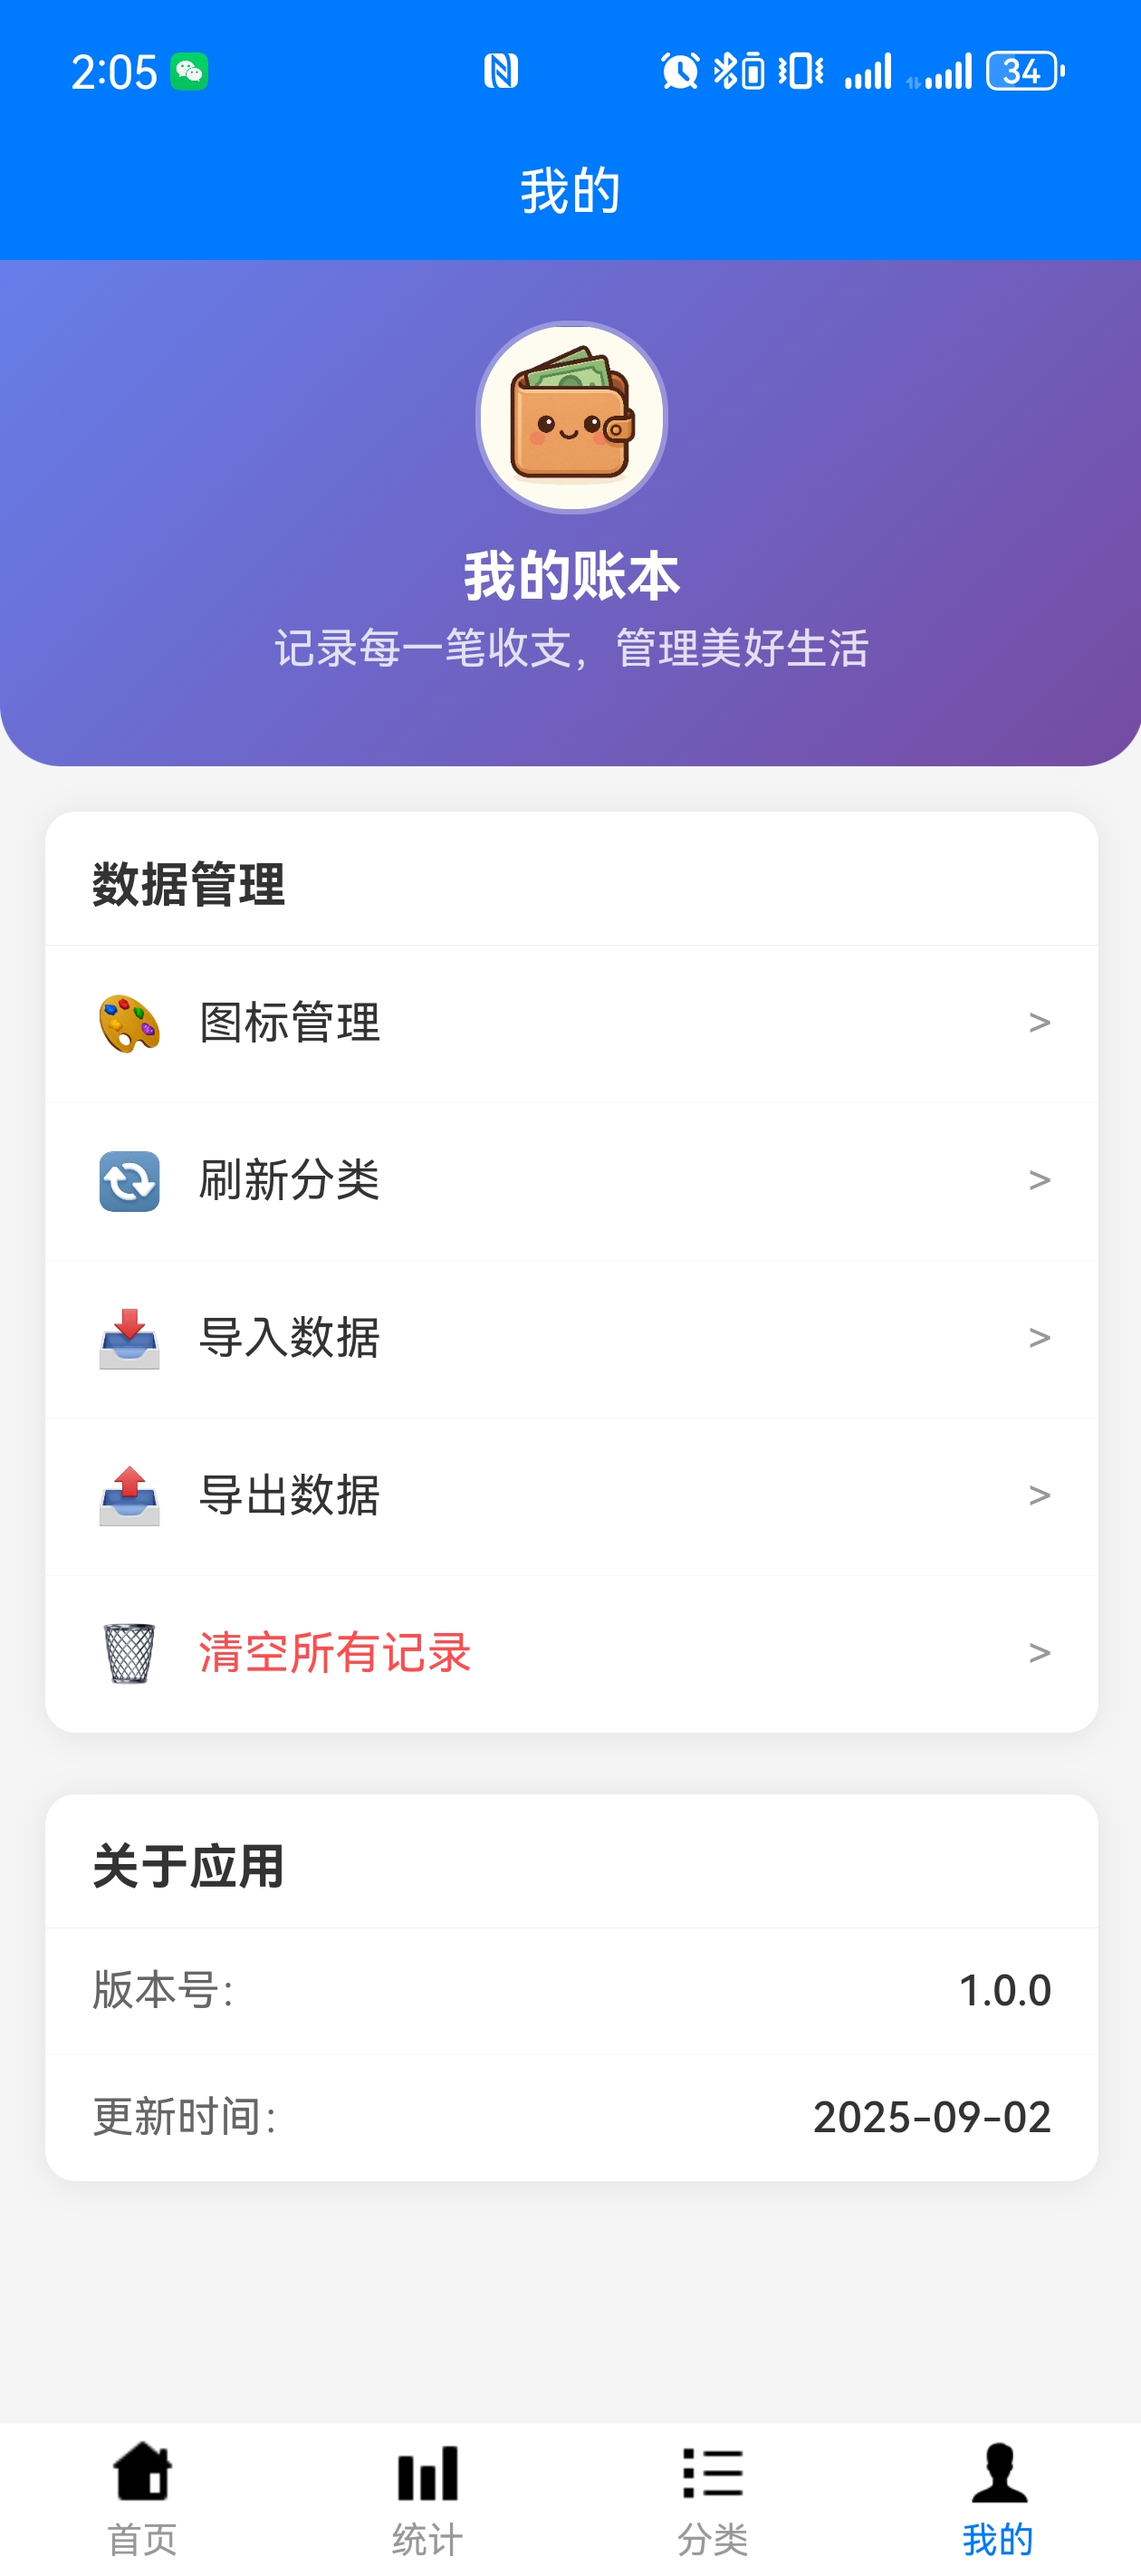
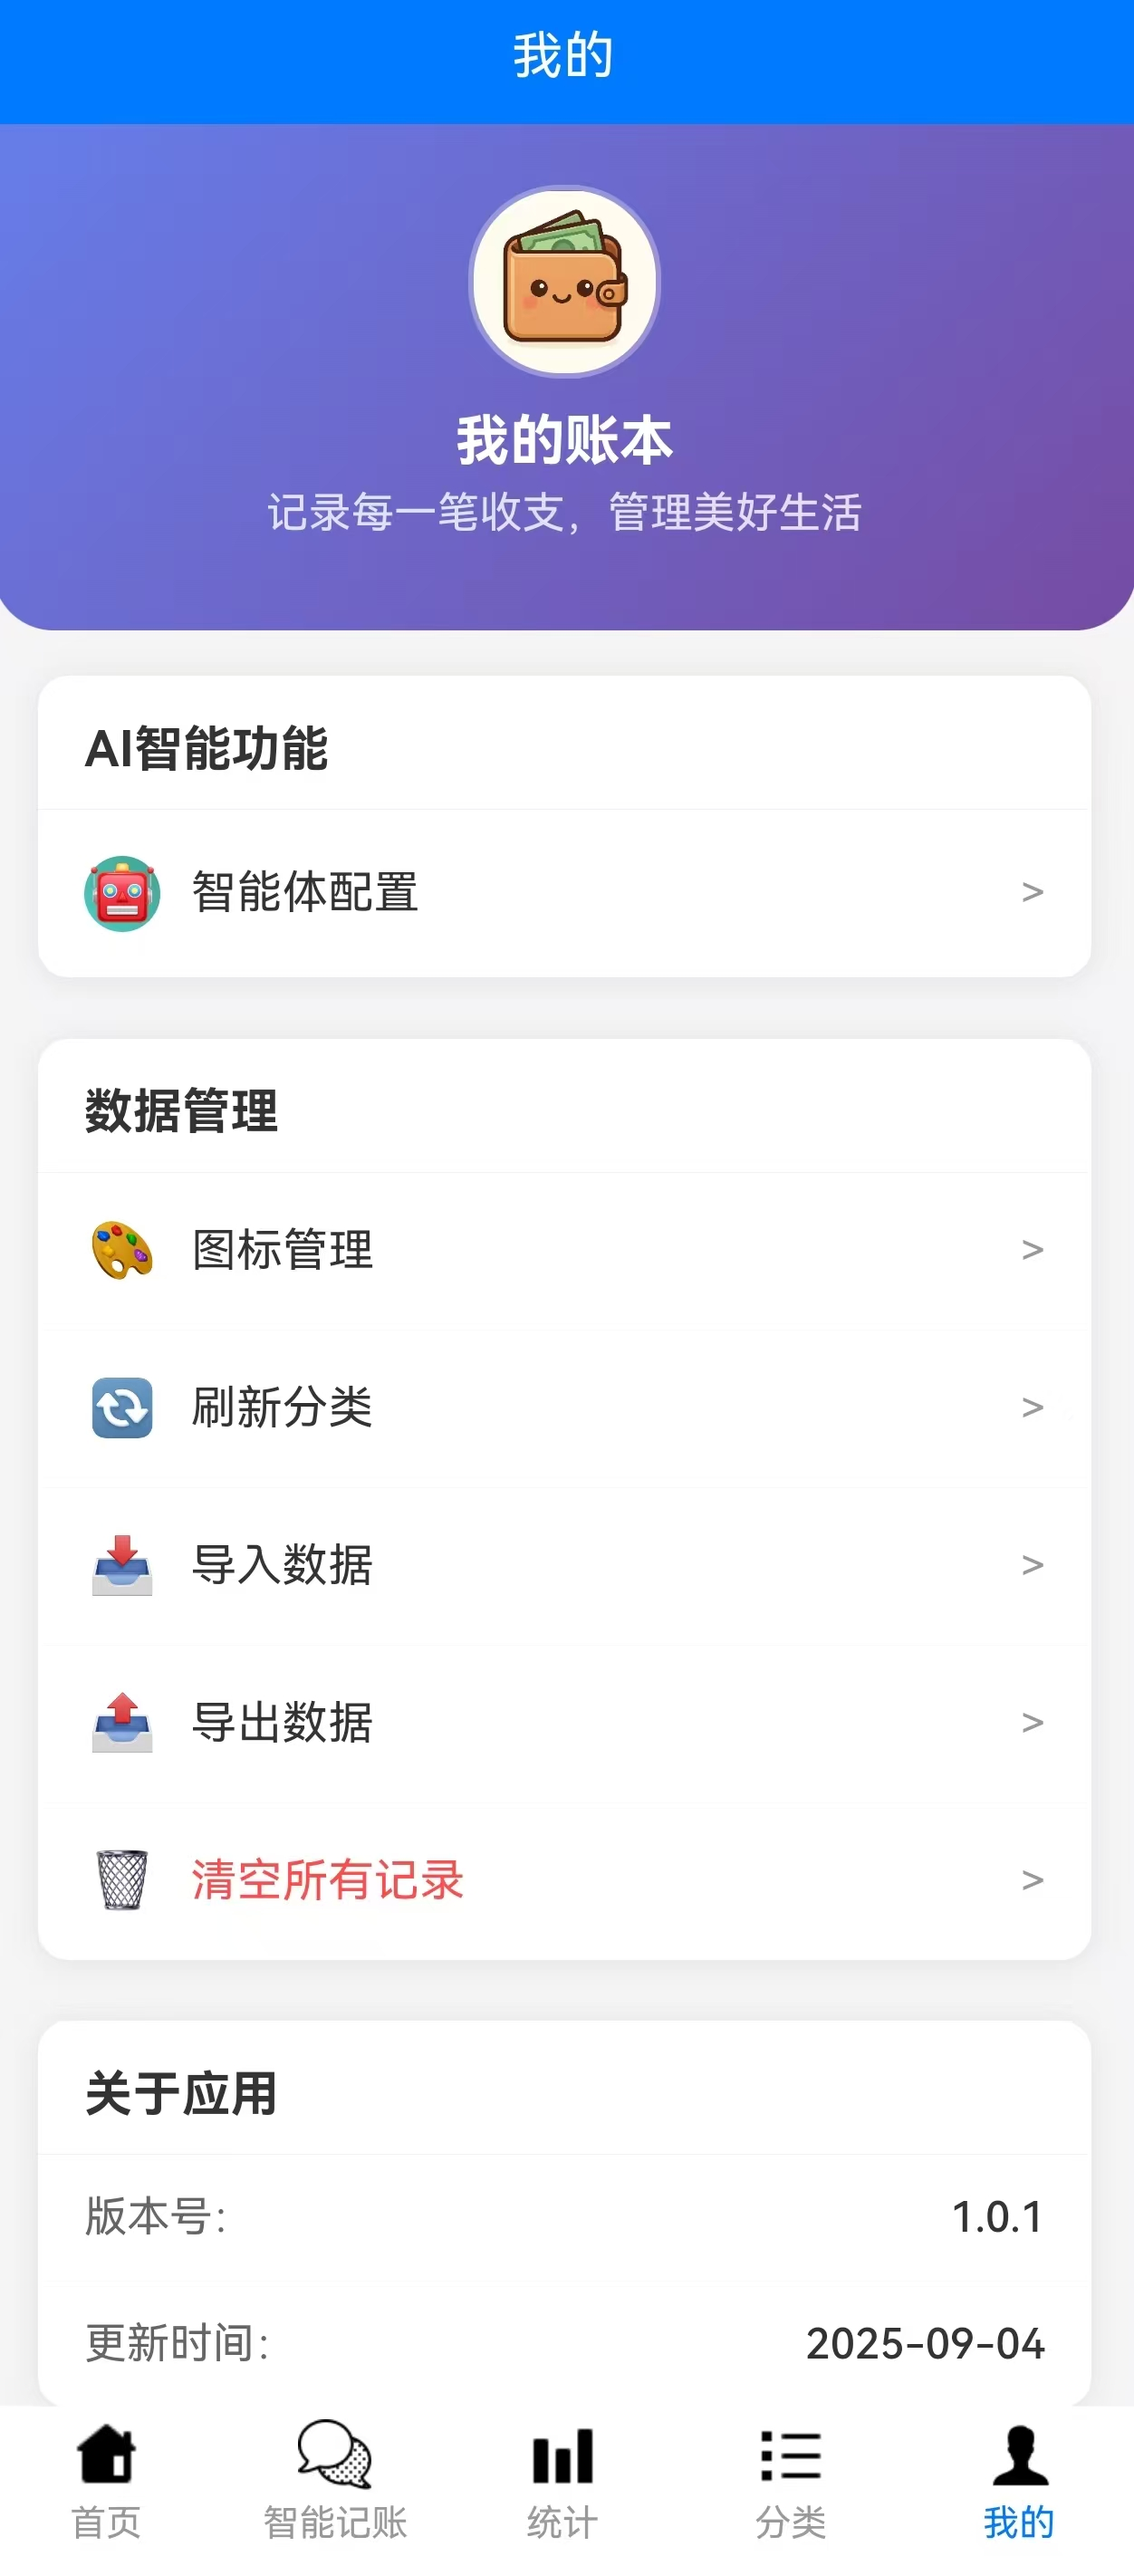
图片以及更新内容提交

diff --git a/pages/profile/profile.vue b/pages/profile/profile.vue
@@ -73,11 +73,11 @@
 			<text class="info-title">关于应用</text>
 			<view class="info-item">
 				<text class="info-label">版本号：</text>
-				<text class="info-value">1.0.0</text>
+				<text class="info-value">1.0.1</text>
 			</view>
 			<view class="info-item">
 				<text class="info-label">更新时间：</text>
-				<text class="info-value">2025-09-02</text>
+				<text class="info-value">2025-09-04</text>
 			</view>
 		</view>
 	</view>
